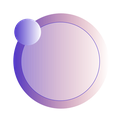
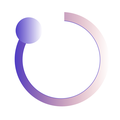
white theme

diff --git a/www/index.html b/www/index.html
@@ -94,6 +94,8 @@
 			   a:active {
 				  text-decoration: none;
 				}
+				
+			 
     	</style>
    	
  	    <script>
@@ -154,7 +156,17 @@ app.myWindowOpen(encodeURI('https://' + str + '.atomjump.com/?orig_query=' + enc
     	
     	<ons-navigator>
          <ons-page>
-	        
+         	<div class="background"></div>
+	       	<style>
+	       		.page__background {
+					background-color: #fff;
+				 }
+				 
+				 .list__item {
+				 	background-color: #f3f3f3;
+				 
+				 }
+	       	</style>
 		    <ons-fab style="z-index: 800;" position="bottom right" onclick="app.openSettings();">
 		      <ons-icon icon="md-menu" ></ons-icon>
 		    </ons-fab>
@@ -174,7 +186,7 @@ app.myWindowOpen(encodeURI('https://' + str + '.atomjump.com/?orig_query=' + enc
 			<br/>
 			<br/>
 				<p style="text-align:center;">	
-					<span style="vertical-align: top; padding: 10px; padding-top:10px;" class="big-text">AtomJump</span><br/><a href="javascript:" onclick="app.myWindowOpen(encodeURI('https://atomjump.com/'), '_system')"><img  src="icon-Small@3x.png" style="padding 10px;"></a><br/><span id='registered' style="display: none;"><small>Listening for Messages</small></span>
+					<span style="vertical-align: top; padding: 10px; padding-top:10px;" class="big-text">AtomJump</span><br/><a href="javascript:" onclick="app.myWindowOpen(encodeURI('https://atomjump.com/'), '_system')"><img  src="icon-small@3x.png" style="padding 10px;"></a><br/><span id='registered' style="display: none;"><small>Listening for Messages</small></span>
 				</p>
 			
 			
@@ -216,7 +228,7 @@ app.myWindowOpen(encodeURI('https://' + str + '.atomjump.com/?orig_query=' + enc
 				<div class="inner-popup">
 				
 					 <div id="header">
-						<div style="float: left;"><span><a href="javascript:" onclick="app.myWindowOpen(encodeURI('https://atomjump.com/'), '_system')"><img  src="icon-Small@3x.png" style="padding 10px; vertical-align: top;" width="24" height="24"></a> <span class="big-text" >AtomJump Messaging</span></span><br/></div>
+						<div style="float: left;"><span><a href="javascript:" onclick="app.myWindowOpen(encodeURI('https://atomjump.com/'), '_system')"><img  src="icon-small@3x.png" style="padding 10px; vertical-align: top;" width="24" height="24"></a> <span class="big-text" >AtomJump Messaging</span></span><br/></div>
 						<div style="text-align:right; float: right;">
 							<span>
 								<a href="javascript:" onclick="$('#add-to-home').toggle(); $('#ios-guide').hide(); $('#android-guide').hide(); $('#desktop-guide').hide(); " style="color: #555; padding:10px;" alt="Add to Home"><ons-icon icon='md-bookmark' class='list__item__icon'></ons-icon>Install</a>
@@ -245,7 +257,7 @@ app.myWindowOpen(encodeURI('https://' + str + '.atomjump.com/?orig_query=' + enc
 					</div>
 					<div style="clear: both;"></div>
 				
-					<!--<span ><a href="javascript:" onclick="app.myWindowOpen(encodeURI('https://atomjump.com/'), '_system')"><img  src="icon-Small@3x.png" style="padding 10px; vertical-align: top;" width="24" height="24"></a> <span class="big-text" >AtomJump Messaging</span></span>--><br/>
+					<!--<span ><a href="javascript:" onclick="app.myWindowOpen(encodeURI('https://atomjump.com/'), '_system')"><img  src="icon-small@3x.png" style="padding 10px; vertical-align: top;" width="24" height="24"></a> <span class="big-text" >AtomJump Messaging</span></span>--><br/>
 				
 				
 					<ons-list style="padding-top: 20px;">

diff --git a/www/css/index.css b/www/css/index.css
@@ -105,7 +105,7 @@ body {
 	height: 130%;
 	padding:0px;
 	margin:0px 0px 0px 0px;
-	background-color: #EEE;
+	background-color: #FFF; /* Was EEE */
 	z-index: 900;
 }
 
@@ -119,12 +119,13 @@ body {
 	height: 100%;
 	padding:0px;
 	margin:0px 0px 0px 0px;
-	background-color: #EEE;
+	background-color: #FFF; /* Was EEE */
 	z-index: 1000;
 }
 
 .inner-popup {
 	padding:20px;  
+	background-color: #fff;
 }
 
 ul {
